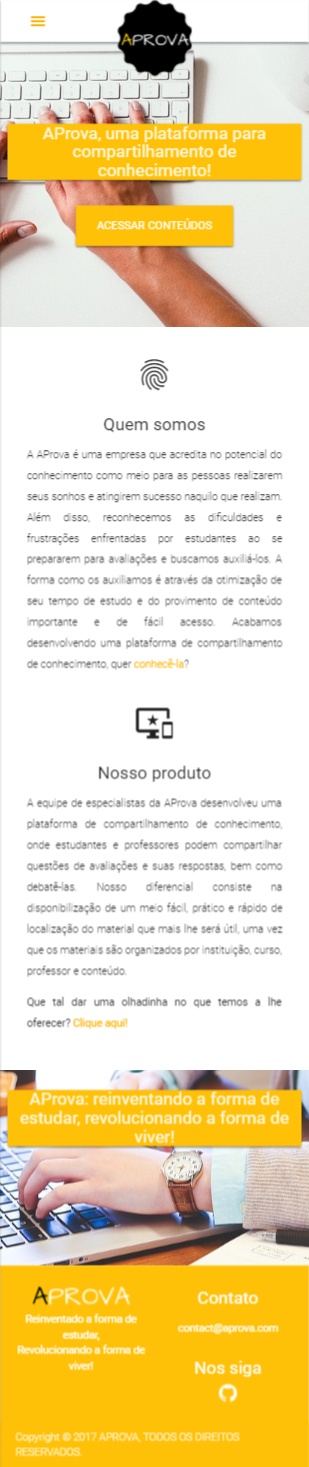
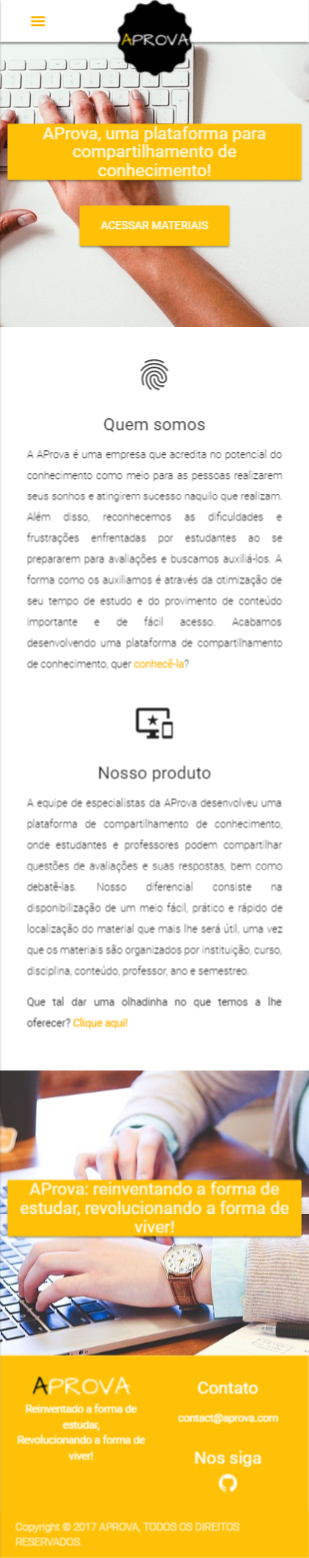
Fixed login and added prototypes.

diff --git a/AProva/client/registrar.html b/AProva/client/registrar.html
@@ -6,58 +6,57 @@
 <template name="registrar">
   <main role="main" id="main">
     <div class="container">
-      <div class="row">
-	<div class="container col s6 m6">
-	  <p role="button" class="hiddenprint top">{{> loginButtons }}</p>
-	</div>
-	<div class="container col s6 m6">
-	  <h5 class="top right">Bem vindo(a){{usuario}}!</h5>
-	</div>
+			<div class="row">
+				<div class="container col s12">
+					{{#if currentUser}}
+					<h5 class="top right" style='margin-top:2.5em'>Bem vindo(a){{usuario}}!</h5>
+					{{/if}}
+				</div>
       </div>
       <div class="row">
-	<h5>Registro de novo material:</h5>
-	<form class="col s12">
-	  <div class="row">
-			<div class="input-field col s12 l6">
-				<input id="inst" type="text" class="validate">
-				<label for="inst">Instituição</label>
-			</div>
-			<div class="input-field col s12 l6">
-				<input id="curso" type="text" class="validate">
-				<label for="curso">Curso</label>
-			</div>
-			<div class="input-field col s12 l6">
-				<input id="disciplina" type="text" class="validate">
-				<label for="disciplina">Disciplina</label>
-			</div>
-			<div class="input-field col s12 l6">
-				<input id="conteudo" type="text" class="validate">
-				<label for="conteudo">Conteúdo</label>
-			</div>
-			<div class="input-field col s12 l6">
-				<input id="professor" type="text" class="validate">
-				<label for="professor">Professor</label>
-			</div>
-			<div class="input-field col s6 l3">
-				<input id="ano" type="number" class="validate">
-				<label for="ano">Ano</label>
-			</div>
-	    <div class="input-field col s6 l3">
-				<input id="semestre" type="number" class="validate">
-				<label for="semestre">Semestre</label>
-			</div>
-	  </div>
-	  <div class="row">
-	    <div class="container col s12">
-				<textarea id="pergunta"></textarea>
-	    </div>
-	  </div>
-	</form>
-	<div class="container col s12 offset-s2 offset-l9" style="padding-top:1em;">
-	<button class="btn-large waves-effect waves-light amber" type="submit" name="action">Enviar material
-	  <i class="material-icons right">send</i>
-	</button>
-	</div>
+				<h5>Registro de novo material:</h5>
+				<form class="col s12">
+					<div class="row">
+						<div class="input-field col s12 l6">
+							<input id="inst" type="text" class="validate">
+							<label for="inst">Instituição</label>
+						</div>
+						<div class="input-field col s12 l6">
+							<input id="curso" type="text" class="validate">
+							<label for="curso">Curso</label>
+						</div>
+						<div class="input-field col s12 l6">
+							<input id="disciplina" type="text" class="validate">
+							<label for="disciplina">Disciplina</label>
+						</div>
+						<div class="input-field col s12 l6">
+							<input id="conteudo" type="text" class="validate">
+							<label for="conteudo">Conteúdo</label>
+						</div>
+						<div class="input-field col s12 l6">
+							<input id="professor" type="text" class="validate">
+							<label for="professor">Professor</label>
+						</div>
+						<div class="input-field col s6 l3">
+							<input id="ano" type="number" class="validate">
+							<label for="ano">Ano</label>
+						</div>
+						<div class="input-field col s6 l3">
+							<input id="semestre" type="number" class="validate">
+							<label for="semestre">Semestre</label>
+						</div>
+					</div>
+					<div class="row">
+						<div class="container col s12">
+							<textarea id="pergunta"></textarea>
+						</div>
+					</div>
+				</form>
+				<div class="container col s8 offset-s2 l3 offset-l9" style="padding-top:1em;">
+				<button class="btn-large waves-effect waves-light amber" type="submit" name="action">Enviar material
+					<i class="material-icons right">send</i>
+				</button>
+				</div>
       </div>
     </div>
   </main>

diff --git a/AProva/client/view.html b/AProva/client/view.html
@@ -7,11 +7,10 @@
 	<main role="main" id="main">
 		<div class="container">
 			<div class="row">
-				<div class="container col s6 m6">
-					<p role="button" class="hiddenprint top">{{> loginButtons }}</p>
-				</div>
-				<div	 class="container col s6 m6">
-					<h5 class="top right">Bem vindo(a){{usuario}}!</h5>
+				<div class="container col s12">
+					{{#if currentUser}}
+					<h5 class="top right" style='margin-top:2.5em'>Bem vindo(a){{usuario}}!</h5>
+					{{/if}}
 				</div>
 			</div>
 			
@@ -19,7 +18,11 @@
 			
 			<div class="row">
 				<div class="container col s12">
+					{{#if currentUser}}
 					<h5>Você está visualizando o material: Prova de Física I</h5>
+					{{else}}
+					<h5 style='margin-top:2em'>Você está visualizando o material: Prova de Física I</h5>
+					{{/if}}
 					<a href="/content">Voltar para página de buscas</a>
 				</div>
 			</div>
@@ -50,10 +53,18 @@
 			  <div class="container col s12">
 				<script>
 					$('textarea#resposta').froalaEditor({placeholderText: 'Insira aqui sua resposta ou comentário'})
-		$('textarea#resposta').froalaEditor();
+					$('textarea#resposta').froalaEditor();
 				  </script>
 			    <h5>Adicionar resposta ou comentário:</h5>
-			    <textarea id="resposta"></textarea>
+					<form class="col s12">
+						<div class="row">
+							<div class="input-field col s12">
+								<input id="title" type="text" class="validate">
+								<label for="title">Título da resposta ou comentário</label>
+							</div>
+						</div>
+						<textarea id="resposta"></textarea>
+					</form>
 			  </div>
 			  <div class="container col s12 right" style="padding-top:2em;">
 			    <button class="btn-large waves-effect waves-light amber" type="submit" name="action">Enviar

diff --git a/AProva/client/content.html b/AProva/client/content.html
@@ -6,14 +6,15 @@
 <template name="content">
 	<main role="main" id="main">
 		<div class="container">
+			
 			<div class="row">
-				<div class="container col s6 m6">
-					<p role="button" class="hiddenprint top">{{> loginButtons }}</p>
-				</div>
-				<div class="container col s6 m6">
-					<h5 class="top right">Bem vindo(a){{usuario}}!</h5>
+				<div class="container col s12">
+					{{#if currentUser}}
+					<h5 class="top right" style='margin-top:2.5em'>Bem vindo(a){{usuario}}!</h5>
+					{{/if}}
 				</div>
 			</div>
+			
 		 
 		 {{#if currentUser}}
 		 <div class="row ">
@@ -25,7 +26,11 @@
 													
 		 <div class="row">
 			<div class="container col s12">
-			 <h5>Busca de materiais:</h5>
+				{{#if currentUser}}
+				<h5>Busca de materiais:</h5>
+				{{else}}
+				<h5 style='margin-top:2em'>Busca de materiais:</h5>
+				{{/if}}
 			 <form>
 				<div class="input-field col s12 l6">
 				 <input id="inst" type="text" class="validate">
@@ -57,7 +62,7 @@
 				</div>
 			 </form>
 			 <div class="col s12">
-				<button class="btn-large waves-effect waves-light amber right" type="submit" name="action">Busca<i class="material-icons 	right">search</i>
+				<button class="btn-large waves-effect waves-light amber right" type="submit" name="action">Buscar<i class="material-icons 	right">search</i>
 				</button>
 			 	</div>
 			</div>

diff --git a/AProva/client/registrar.js b/AProva/client/registrar.js
@@ -12,7 +12,6 @@ import './main.html';
 import './registrar.html';
 
 // Definição das rotas para /registrar
-
 Router.route('/registrar', function () {
 	this.layout('common_layout');
 	this.render('header', {
@@ -24,6 +23,18 @@ Router.route('/registrar', function () {
 	this.render('footer', {
 		to: "footer"
 	});
+});
+
+Template.registrar.helpers({
+	usuario: function () {
+		if (Meteor.user()) {
+			if (Meteor.user().username) {
+				return ", " + Meteor.user().username;
+			} else if (Meteor.user().profile.name) {
+				return ", " + Meteor.user().profile.name;
+			}
+		}
+	},
 });
 
 // Inicializações dos componentes js

diff --git a/AProva/client/main.js b/AProva/client/main.js
@@ -10,10 +10,15 @@ import {
 } from 'meteor/reactive-var';
 import './main.html';
 
-// Configuração de accounts para aceitar username e email
-Accounts.ui.config({
-	passwordSignupFields: "USERNAME_AND_EMAIL"
-});
+// Redirecionamento para \index se usuário não está logado
+Router.onBeforeAction(function () {    
+    if  (!Meteor.userId() && !Meteor.loggingIn()) {
+        this.redirect('\index');
+        this.stop();
+    } else {
+        this.next();
+    }
+},{except: ['index','content', 'view'] });
 
 // Inicializações dos componentes js
 Template.header.onRendered(function () {
